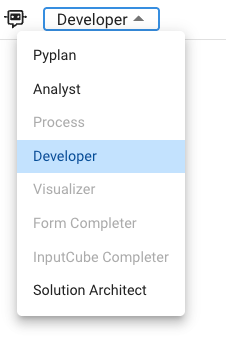
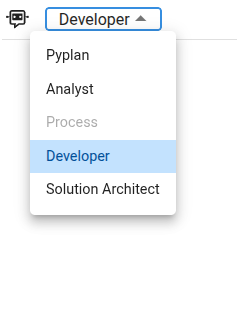
remove old agents

diff --git a/docs/user-guide/ai-agents.md b/docs/user-guide/ai-agents.md
@@ -5,7 +5,7 @@ title: AI Agents
 
 # AI Agents
 
-Pyplan includes several built-in agent types designed to assist users across different workflows. These agents come pre-configured with specialized roles, optimized behaviors, and access capabilities tailored to their purpose. They simplify user interactions, automate complex tasks, and guide users through model logic, analysis, or interface creation.
+Pyplan includes several built-in agent types designed to assist users across different workflows. These agents come pre-configured with specialized roles, optimized behaviors, and access capabilities tailored to their purpose. They simplify user interactions, automate complex tasks, and guide users through model logic, analysis, and operational workflows.
 
 ![Agents Selection](./img/ai-agents/agents_selection.png)
 
@@ -117,28 +117,6 @@ The **Developer Agent** assists in the technical construction and maintenance of
 - Suggest optimizations or improvements to node structure.
 
 It accelerates model development and promotes best practices.
-
-## Visualizer Agent
-
-The **Visualizer Agent** focuses on interface creation and layout design. It assists with:
-
-- Suggesting and generating charts, tables, filters, and other UI components.
-- Guiding users on best practices for dashboard clarity and usability.
-- Configuring interface properties such as formatting, interactions, and layout.
-- Helping align visualizations with the analytical purpose of the application.
-
-Ideal for users who need to build dashboards but are not experts in interface design.
-
-## Form Completer / Input Cube Completer
-
-The **Form Completer** and **Input Cube Completer** agents are designed to assist users in filling out forms and data input cubes automatically, based on the user's needs and the context of the application. Their capabilities include:
-
-- Interpreting the structure of a form or input cube and proposing values for each field.
-- Using available context — such as previously loaded data, node values, or user instructions — to generate coherent and consistent entries.
-- Reducing manual data entry effort in planning, budgeting, or operational input scenarios.
-- Validating that proposed values align with expected formats, ranges, or business rules defined in the model.
-
-These agents are especially useful in planning and budgeting applications where users need to complete large input cubes efficiently.
 
 ## Solution Architect
 
